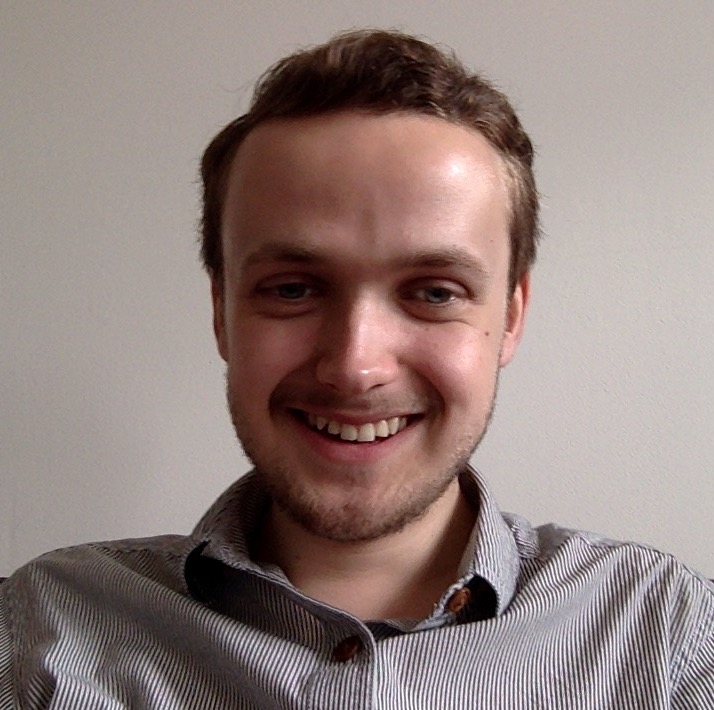
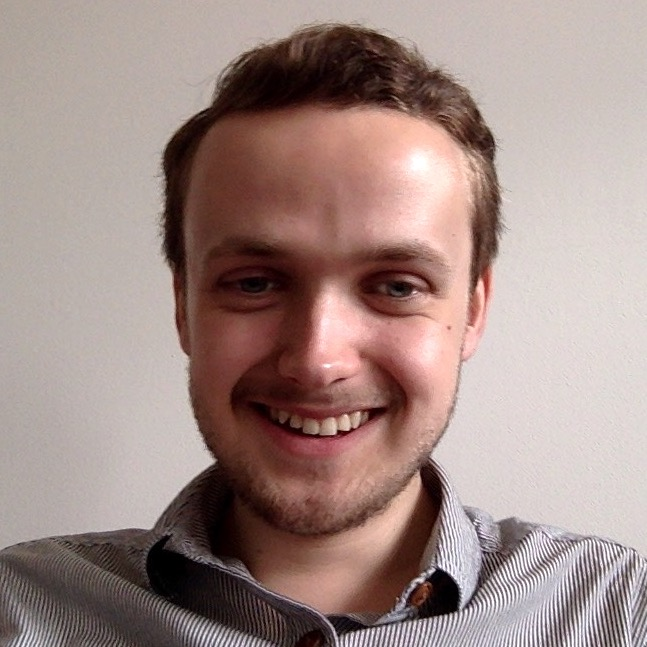
Adjust sizes of images

diff --git a/index.html b/index.html
@@ -28,13 +28,25 @@
 </head>
 <body>
     <header>
-		<img src="images/sam.jpg" alt="photograph of sam">
+		<img src="images/sam.jpg" alt="photograph of sam" width="240" height="240">
 		<h1 id="name">sam whitehall</h1>
 		<h2 id="description">software developer in Oxford</h2>
 		<ul id="contact">
-            <li><a href="#"><img src="images/mail.svg" alt="email"></a></li>
-            <li><a href="#"><img src="images/twitter.svg" alt="twitter"></a></li>
-            <li><a href="#"><img src="images/github.svg" alt="github"></a></li>
+            <li>
+                <a href="mailto:me@samwhitehall.com">
+                    <img src="images/mail.svg" alt="email" width="36" height="36">
+                </a>
+            </li>
+            <li>
+                <a href="http://www.twitter.com/sgwhall">
+                    <img src="images/twitter.svg" alt="twitter" width="36" height="36">
+                </a>
+            </li>
+            <li>
+                <a href="http://www.github.com/samwhitehall">
+                    <img src="images/github.svg" alt="github" width="36" height="36">
+                </a>
+            </li>
 		</ul>
     </header>
     <nav>
